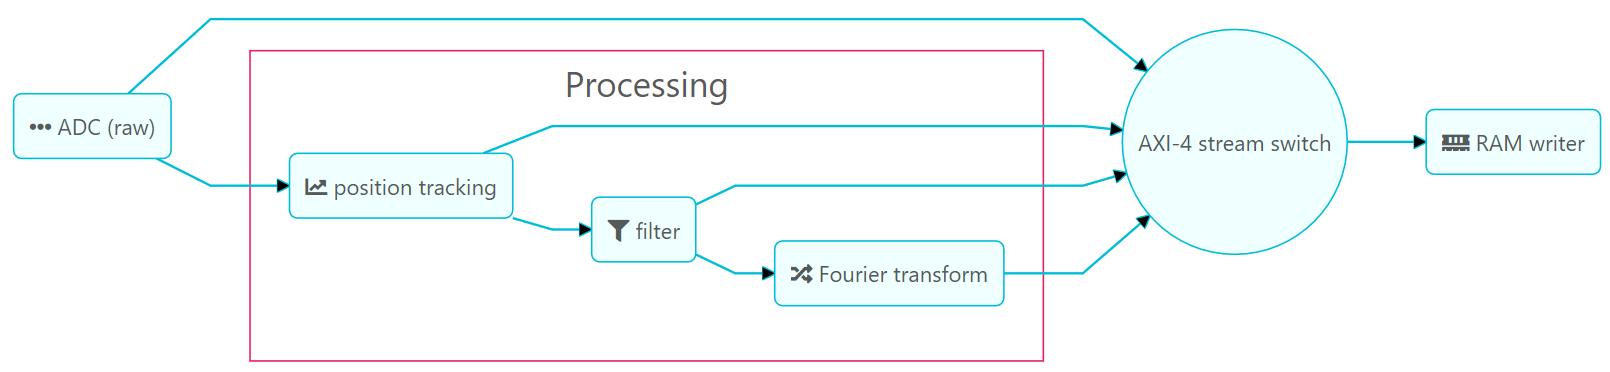
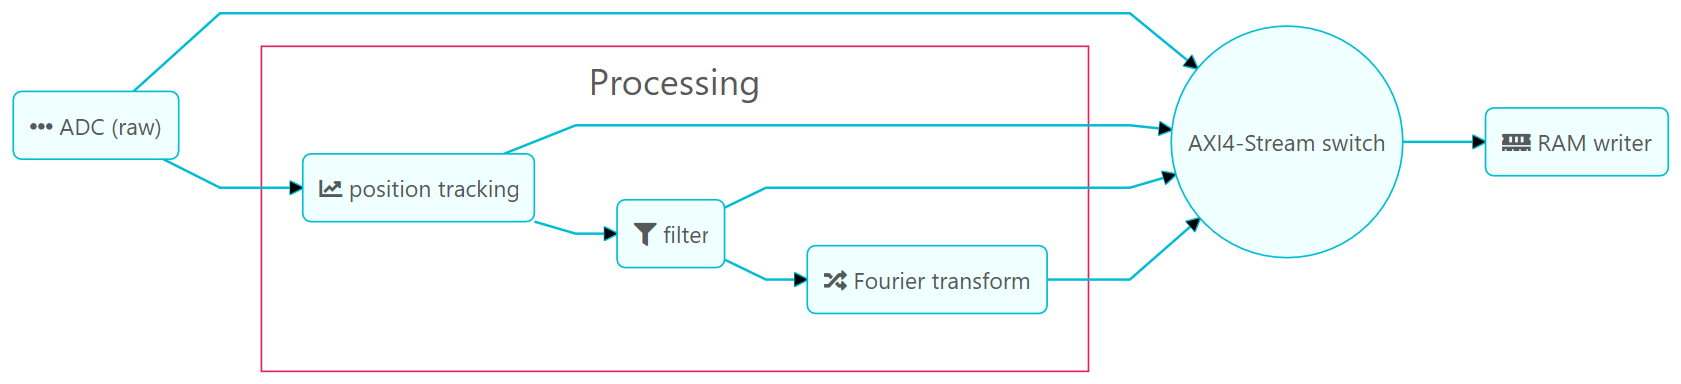
Fix wrong naming.

diff --git a/doc/flow_diagram.md b/doc/flow_diagram.md
@@ -4,7 +4,7 @@ graph LR
     PT(fa:fa-chart-line position tracking)
     FI(fa:fa-filter filter)
     FT(fa:fa-random Fourier transform)
-    AS((AXI-4 stream switch))
+    AS((AXI4-Stream switch))
     RW(fa:fa-memory RAM writer)
 
     DA --> PT
